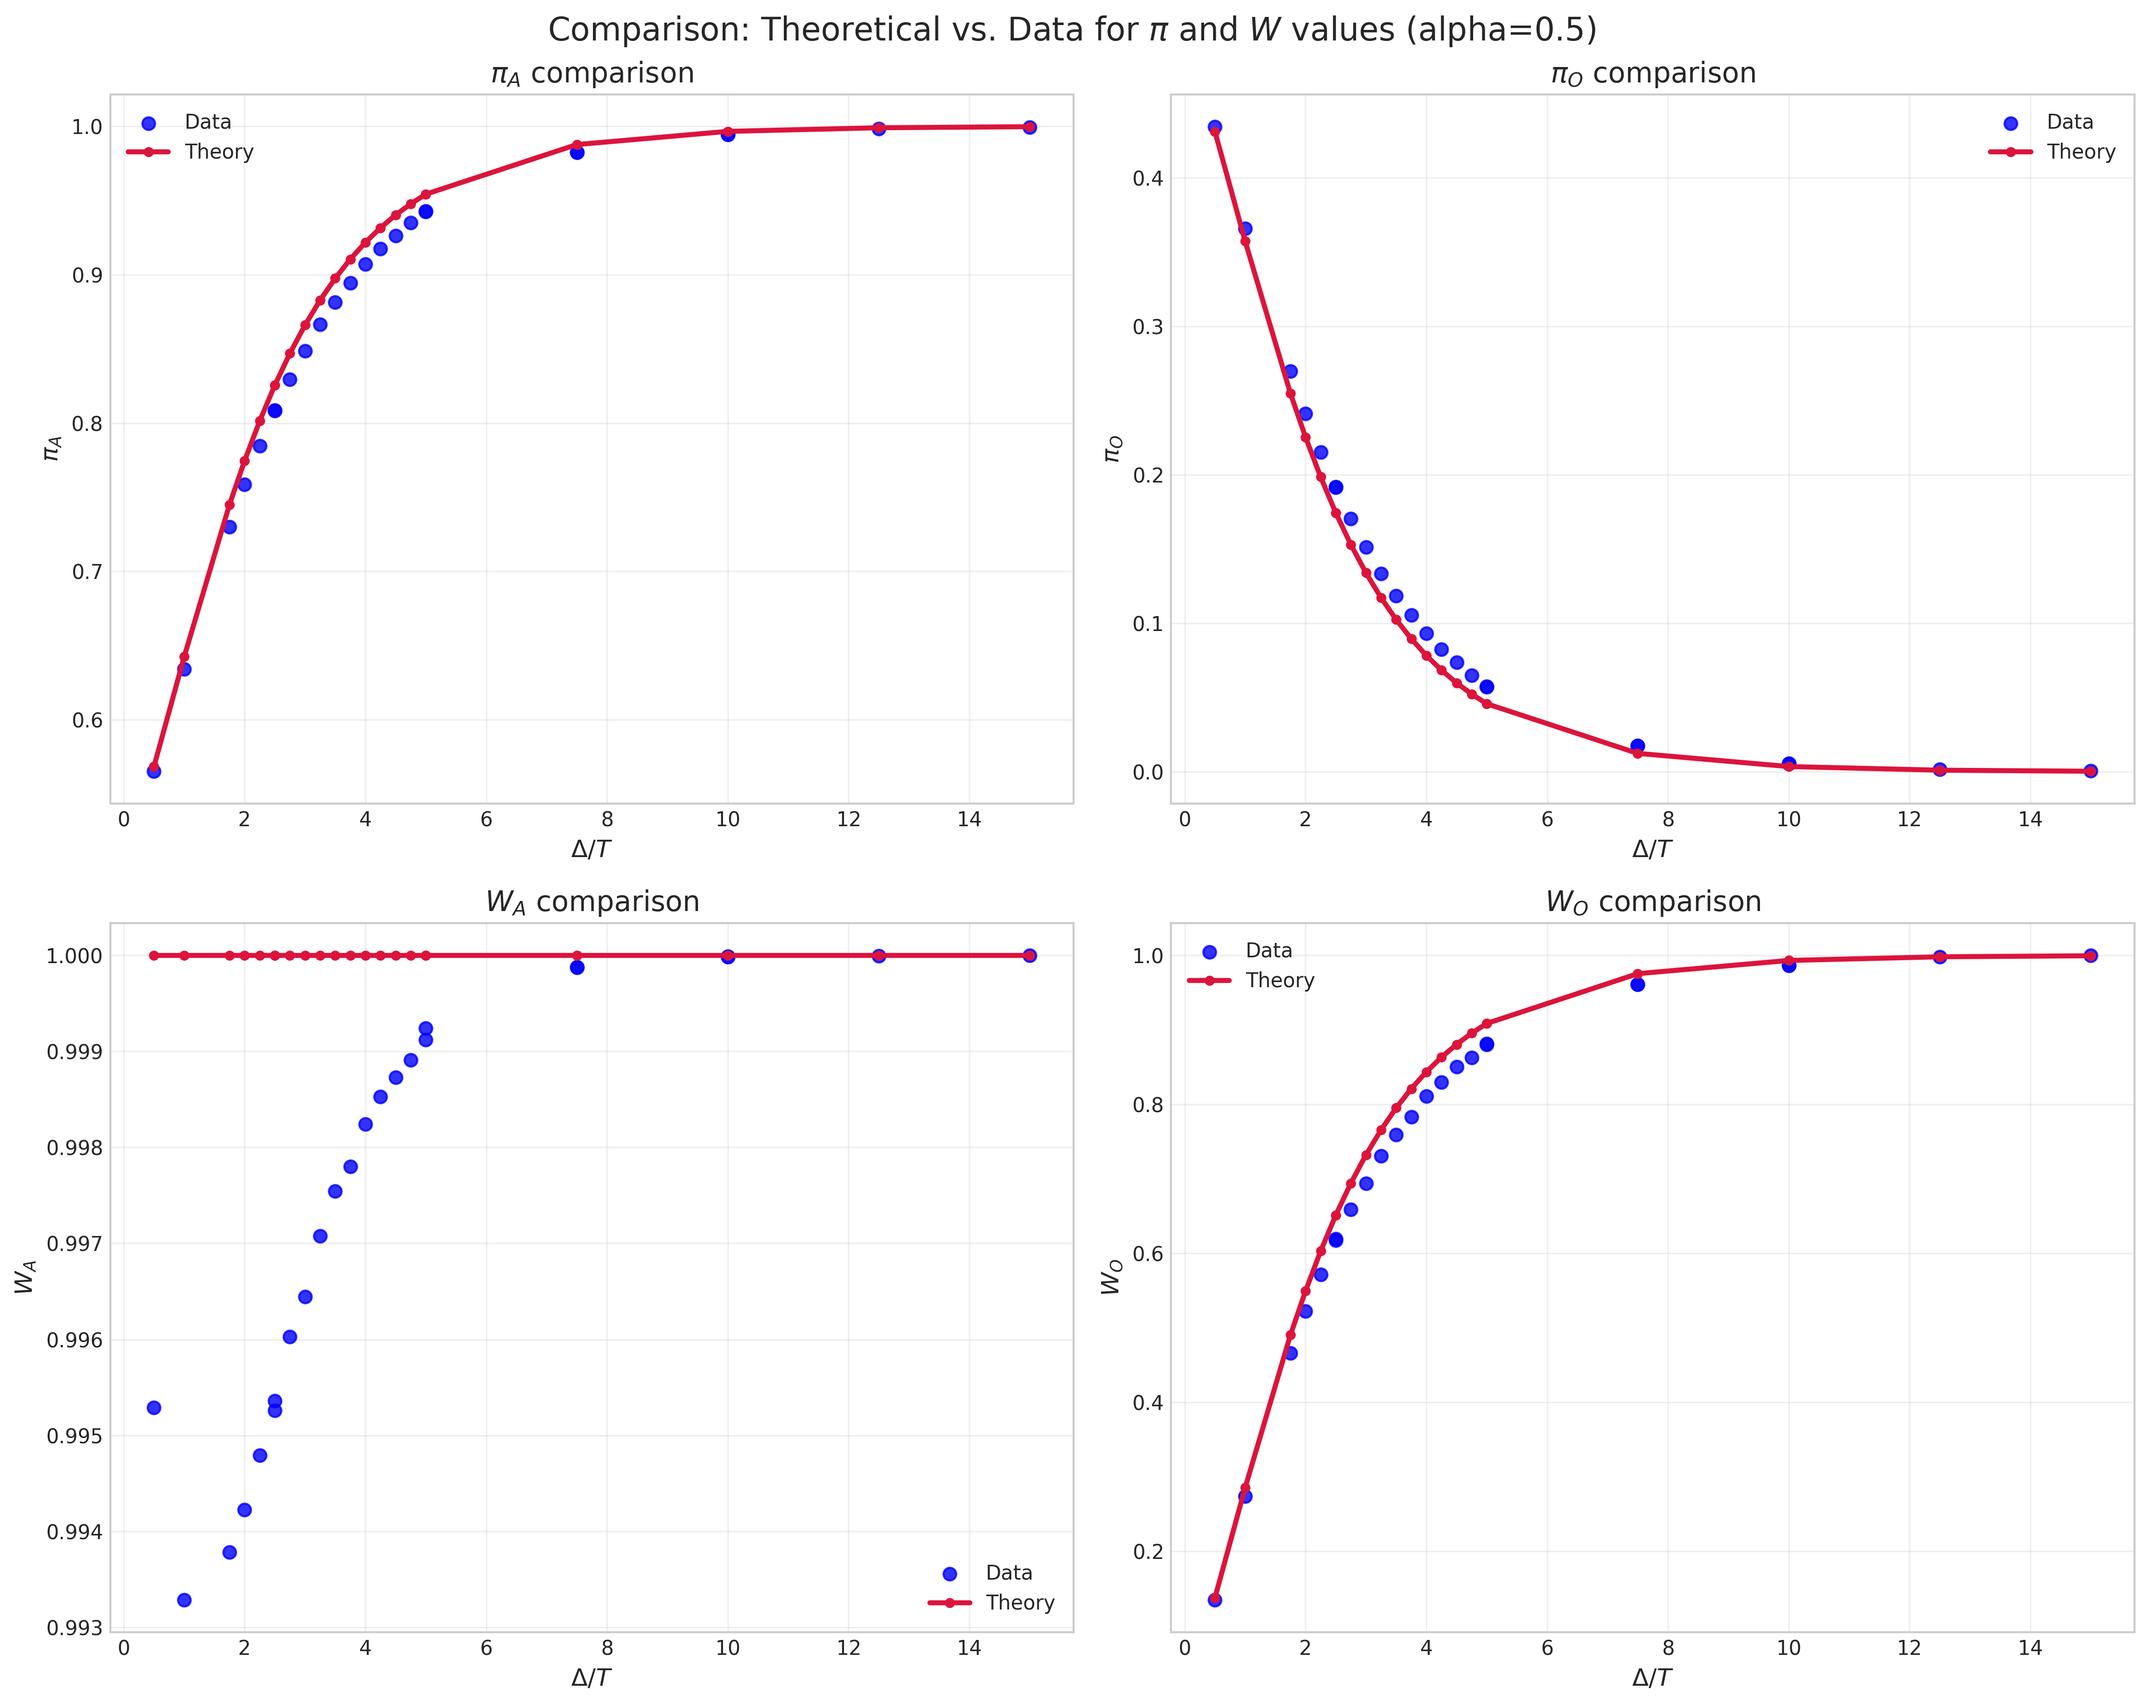
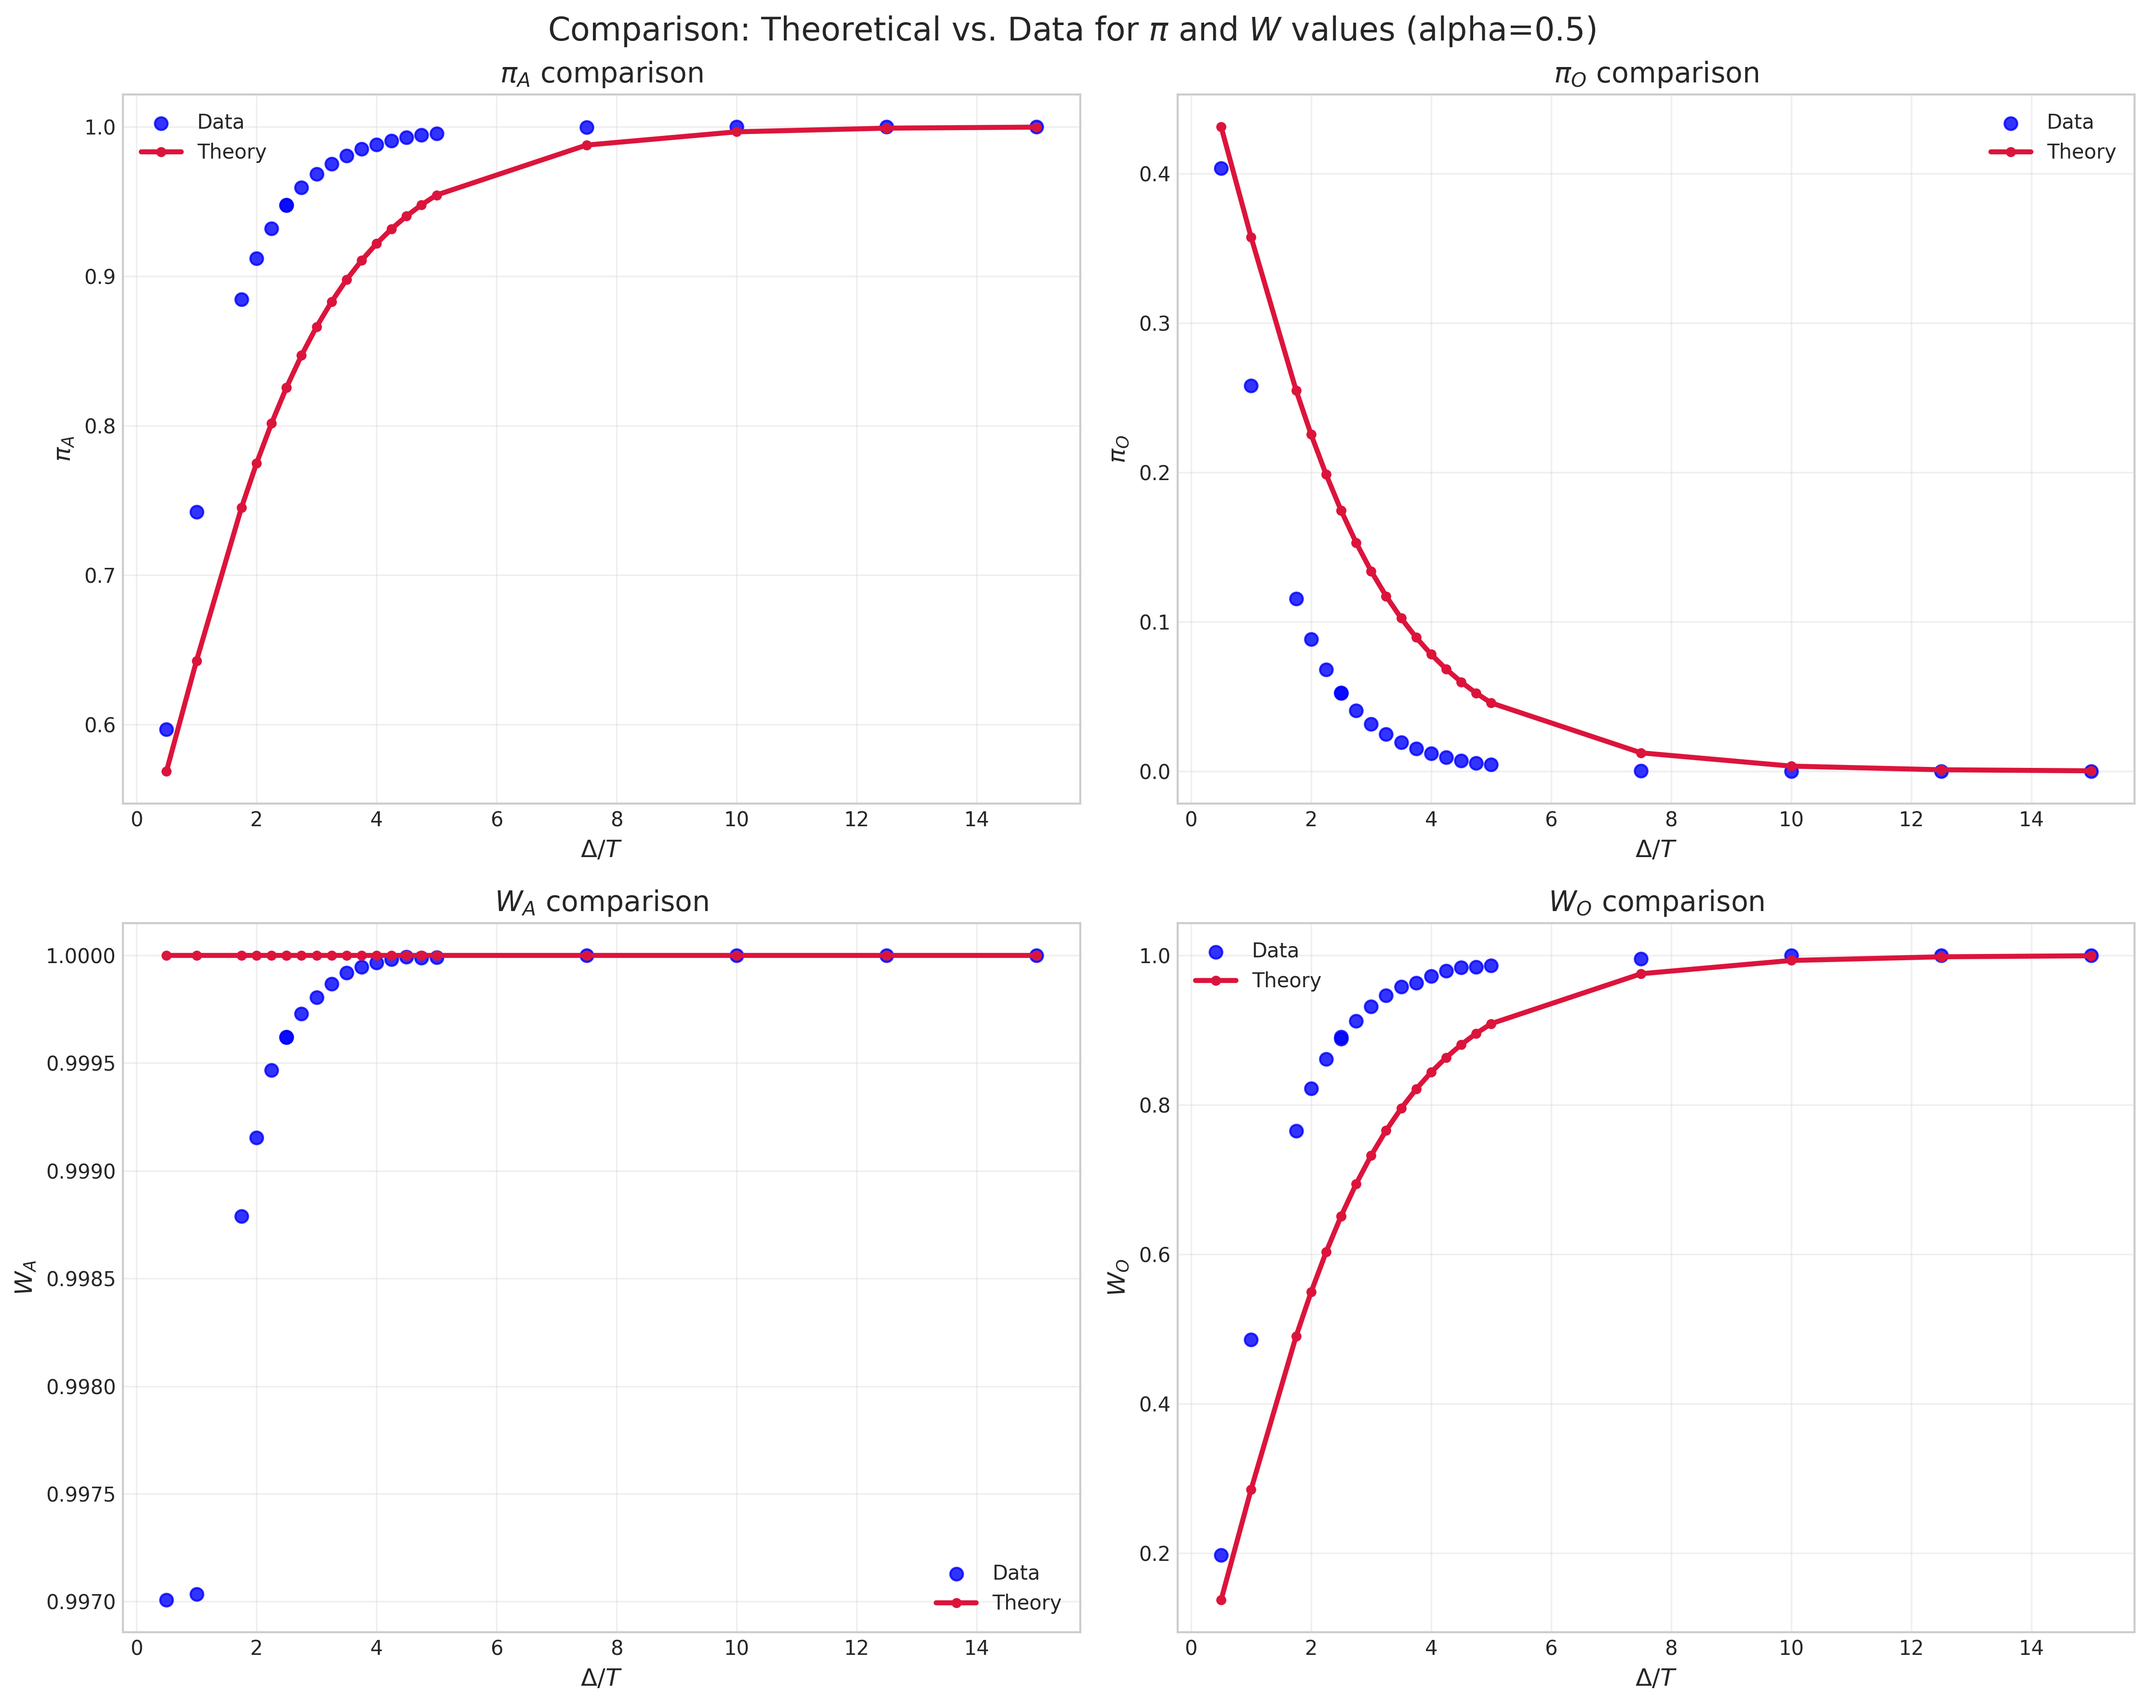
data

diff --git a/src/washiblock.cpp b/src/washiblock.cpp
@@ -119,14 +119,15 @@ block* createGenesisBlock() {
 }
 int main(void) {
     cout << "akira" << endl;
-    //const std::array<ll, 14> delay_values = {
-       // 1350000, 1500000, 1650000, 
-       // 1800000, 1950000, 2100000, 2250000, 2400000, 2550000,
-       //2700000, 2850000, 3000000, 4500000, 6000000
-    //};
-     const std::array<ll, 4> delay_values = {
-   	2850000, 3000000, 4500000, 6000000
+    const std::array<ll, 24> delay_values = {
+        300000, 600000, 1500000, 3000000, 4500000, 6000000, 7500000, 
+        9000000, 1050000, 1200000, 1350000, 1500000, 1650000, 
+        1800000, 1950000, 2100000, 2250000, 2400000, 2550000,
+       2700000, 2850000, 3000000, 4500000, 6000000
     };
+    //  const std::array<ll, 4> delay_values = {
+   	// 2850000, 3000000, 4500000, 6000000
+    // };
 
     // w_A, w_O, pi_A, pi_O の値を記録するCSVファイルを作成
     const std::string output_dir = "tmp_data";

diff --git a/plot/fit_final_share_curve.py b/plot/fit_final_share_curve.py
@@ -45,7 +45,7 @@ def load_w_and_pi_data(data_dir: str) -> pd.DataFrame:
     
     Returns DataFrame with columns: delay, pi_A, pi_O, w_A, w_O
     """
-    w_and_pi_file = os.path.join(data_dir, "1000000static_w_and_pi.csv")
+    w_and_pi_file = os.path.join(data_dir, "40nodes.csv")
     if not os.path.exists(w_and_pi_file):
         raise FileNotFoundError(f"w_and_pi file not found: {w_and_pi_file}")
     
